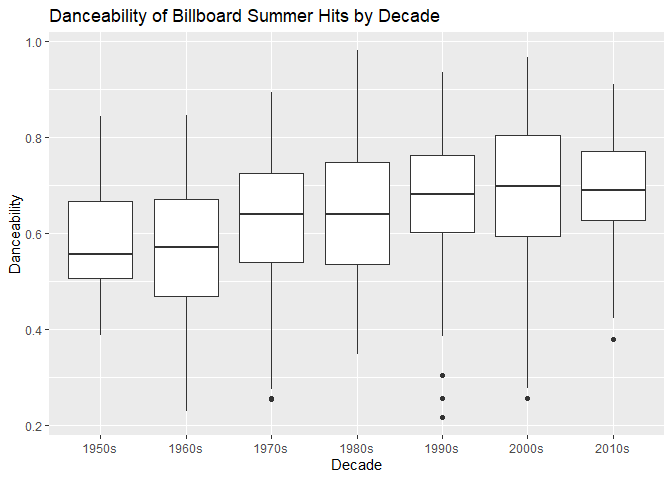
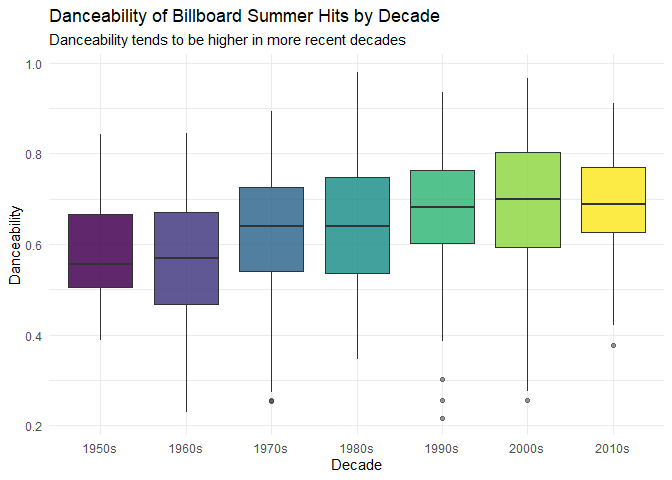
Updated visualizations 2 and 3 for project 1

diff --git a/project-01/Spangler_project_01.md b/project-01/Spangler_project_01.md
@@ -160,7 +160,9 @@ energy_plot <- ggplot(
       "<br>Average energy:", round(average_energy, 3)
     )
   )
-) + geom_line(linewidth = 0.8) + geom_point(size = 1.5) +
+) +
+  geom_line(linewidth = 0.8) +
+  geom_point(size = 1.5) +
   labs(
     title = "Average Energy of Billboard Summer Hits Over Time",
     x = "Year",
@@ -171,30 +173,42 @@ ggplotly(energy_plot, tooltip = "text")
 ```
 
 ```{=html}
-<div class="plotly html-widget html-fill-item" id="htmlwidget-34f5911a9bf1ff0a7f83" style="width:672px;height:480px;"></div>
-<script type="application/json" data-for="htmlwidget-34f5911a9bf1ff0a7f83">{"x":{"data":[{"x":[1958,null,1959,null,1960,null,1961,null,1962,null,1963,null,1964,null,1965,null,1966,null,1967,null,1968,null,1969,null,1970,null,1971,null,1972,null,1973,null,1974,null,1975,null,1976,null,1977,null,1978,null,1979,null,1980,null,1981,null,1982,null,1983,null,1984,null,1985,null,1986,null,1987,null,1988,null,1989,null,1990,null,1991,null,1992,null,1993,null,1994,null,1995,null,1996,null,1997,null,1998,null,1999,null,2000,null,2001,null,2002,null,2003,null,2004,null,2005,null,2006,null,2007,null,2008,null,2009,null,2010,null,2011,null,2012,null,2013,null,2014,null,2015,null,2016,null,2017],"y":[0.44850000000000001,null,0.52510000000000001,null,0.55030000000000001,null,0.51139000000000001,null,0.501,null,0.59508000000000005,null,0.51459999999999995,null,0.60709999999999997,null,0.59260000000000002,null,0.57020000000000004,null,0.58789999999999998,null,0.42570000000000002,null,0.56240000000000001,null,0.42880000000000001,null,0.51760000000000006,null,0.58379999999999999,null,0.49540000000000001,null,0.54349999999999998,null,0.58220000000000005,null,0.5151,null,0.53605999999999998,null,0.6663,null,0.5796,null,0.53180000000000005,null,0.61460000000000004,null,0.63629999999999998,null,0.71889999999999998,null,0.75290000000000001,null,0.751,null,0.71189999999999998,null,0.68159999999999998,null,0.54830000000000001,null,0.70210000000000006,null,0.62719999999999998,null,0.55469999999999997,null,0.62290000000000001,null,0.56609999999999994,null,0.59719999999999995,null,0.59970000000000001,null,0.75800000000000001,null,0.53700000000000003,null,0.69230000000000003,null,0.74870000000000003,null,0.64800000000000002,null,0.71230000000000004,null,0.69379999999999997,null,0.62339999999999995,null,0.71040000000000003,null,0.70679999999999998,null,0.63439999999999996,null,0.69289999999999996,null,0.78900000000000003,null,0.80459999999999998,null,0.70440000000000003,null,0.72789999999999999,null,0.71360000000000001,null,0.6724,null,0.73299999999999998,null,0.68320000000000003,null,0.68159999999999998],"text":["Year: 1958 <br>Average energy: 0.448",null,"Year: 1959 <br>Average energy: 0.525",null,"Year: 1960 <br>Average energy: 0.55",null,"Year: 1961 <br>Average energy: 0.511",null,"Year: 1962 <br>Average energy: 0.501",null,"Year: 1963 <br>Average energy: 0.595",null,"Year: 1964 <br>Average energy: 0.515",null,"Year: 1965 <br>Average energy: 0.607",null,"Year: 1966 <br>Average energy: 0.593",null,"Year: 1967 <br>Average energy: 0.57",null,"Year: 1968 <br>Average energy: 0.588",null,"Year: 1969 <br>Average energy: 0.426",null,"Year: 1970 <br>Average energy: 0.562",null,"Year: 1971 <br>Average energy: 0.429",null,"Year: 1972 <br>Average energy: 0.518",null,"Year: 1973 <br>Average energy: 0.584",null,"Year: 1974 <br>Average energy: 0.495",null,"Year: 1975 <br>Average energy: 0.543",null,"Year: 1976 <br>Average energy: 0.582",null,"Year: 1977 <br>Average energy: 0.515",null,"Year: 1978 <br>Average energy: 0.536",null,"Year: 1979 <br>Average energy: 0.666",null,"Year: 1980 <br>Average energy: 0.58",null,"Year: 1981 <br>Average energy: 0.532",null,"Year: 1982 <br>Average energy: 0.615",null,"Year: 1983 <br>Average energy: 0.636",null,"Year: 1984 <br>Average energy: 0.719",null,"Year: 1985 <br>Average energy: 0.753",null,"Year: 1986 <br>Average energy: 0.751",null,"Year: 1987 <br>Average energy: 0.712",null,"Year: 1988 <br>Average energy: 0.682",null,"Year: 1989 <br>Average energy: 0.548",null,"Year: 1990 <br>Average energy: 0.702",null,"Year: 1991 <br>Average energy: 0.627",null,"Year: 1992 <br>Average energy: 0.555",null,"Year: 1993 <br>Average energy: 0.623",null,"Year: 1994 <br>Average energy: 0.566",null,"Year: 1995 <br>Average energy: 0.597",null,"Year: 1996 <br>Average energy: 0.6",null,"Year: 1997 <br>Average energy: 0.758",null,"Year: 1998 <br>Average energy: 0.537",null,"Year: 1999 <br>Average energy: 0.692",null,"Year: 2000 <br>Average energy: 0.749",null,"Year: 2001 <br>Average energy: 0.648",null,"Year: 2002 <br>Average energy: 0.712",null,"Year: 2003 <br>Average energy: 0.694",null,"Year: 2004 <br>Average energy: 0.623",null,"Year: 2005 <br>Average energy: 0.71",null,"Year: 2006 <br>Average energy: 0.707",null,"Year: 2007 <br>Average energy: 0.634",null,"Year: 2008 <br>Average energy: 0.693",null,"Year: 2009 <br>Average energy: 0.789",null,"Year: 2010 <br>Average energy: 0.805",null,"Year: 2011 <br>Average energy: 0.704",null,"Year: 2012 <br>Average energy: 0.728",null,"Year: 2013 <br>Average energy: 0.714",null,"Year: 2014 <br>Average energy: 0.672",null,"Year: 2015 <br>Average energy: 0.733",null,"Year: 2016 <br>Average energy: 0.683",null,"Year: 2017 <br>Average energy: 0.682"],"type":"scatter","mode":"lines","line":{"width":3.0236220472440949,"color":"rgba(0,0,0,1)","dash":"solid"},"hoveron":"points","showlegend":false,"xaxis":"x","yaxis":"y","hoverinfo":"text","frame":null},{"x":[1958,1959,1960,1961,1962,1963,1964,1965,1966,1967,1968,1969,1970,1971,1972,1973,1974,1975,1976,1977,1978,1979,1980,1981,1982,1983,1984,1985,1986,1987,1988,1989,1990,1991,1992,1993,1994,1995,1996,1997,1998,1999,2000,2001,2002,2003,2004,2005,2006,2007,2008,2009,2010,2011,2012,2013,2014,2015,2016,2017],"y":[0.44850000000000001,0.52510000000000001,0.55030000000000001,0.51139000000000001,0.501,0.59508000000000005,0.51459999999999995,0.60709999999999997,0.59260000000000002,0.57020000000000004,0.58789999999999998,0.42570000000000002,0.56240000000000001,0.42880000000000001,0.51760000000000006,0.58379999999999999,0.49540000000000001,0.54349999999999998,0.58220000000000005,0.5151,0.53605999999999998,0.6663,0.5796,0.53180000000000005,0.61460000000000004,0.63629999999999998,0.71889999999999998,0.75290000000000001,0.751,0.71189999999999998,0.68159999999999998,0.54830000000000001,0.70210000000000006,0.62719999999999998,0.55469999999999997,0.62290000000000001,0.56609999999999994,0.59719999999999995,0.59970000000000001,0.75800000000000001,0.53700000000000003,0.69230000000000003,0.74870000000000003,0.64800000000000002,0.71230000000000004,0.69379999999999997,0.62339999999999995,0.71040000000000003,0.70679999999999998,0.63439999999999996,0.69289999999999996,0.78900000000000003,0.80459999999999998,0.70440000000000003,0.72789999999999999,0.71360000000000001,0.6724,0.73299999999999998,0.68320000000000003,0.68159999999999998],"text":["Year: 1958 <br>Average energy: 0.448","Year: 1959 <br>Average energy: 0.525","Year: 1960 <br>Average energy: 0.55","Year: 1961 <br>Average energy: 0.511","Year: 1962 <br>Average energy: 0.501","Year: 1963 <br>Average energy: 0.595","Year: 1964 <br>Average energy: 0.515","Year: 1965 <br>Average energy: 0.607","Year: 1966 <br>Average energy: 0.593","Year: 1967 <br>Average energy: 0.57","Year: 1968 <br>Average energy: 0.588","Year: 1969 <br>Average energy: 0.426","Year: 1970 <br>Average energy: 0.562","Year: 1971 <br>Average energy: 0.429","Year: 1972 <br>Average energy: 0.518","Year: 1973 <br>Average energy: 0.584","Year: 1974 <br>Average energy: 0.495","Year: 1975 <br>Average energy: 0.543","Year: 1976 <br>Average energy: 0.582","Year: 1977 <br>Average energy: 0.515","Year: 1978 <br>Average energy: 0.536","Year: 1979 <br>Average energy: 0.666","Year: 1980 <br>Average energy: 0.58","Year: 1981 <br>Average energy: 0.532","Year: 1982 <br>Average energy: 0.615","Year: 1983 <br>Average energy: 0.636","Year: 1984 <br>Average energy: 0.719","Year: 1985 <br>Average energy: 0.753","Year: 1986 <br>Average energy: 0.751","Year: 1987 <br>Average energy: 0.712","Year: 1988 <br>Average energy: 0.682","Year: 1989 <br>Average energy: 0.548","Year: 1990 <br>Average energy: 0.702","Year: 1991 <br>Average energy: 0.627","Year: 1992 <br>Average energy: 0.555","Year: 1993 <br>Average energy: 0.623","Year: 1994 <br>Average energy: 0.566","Year: 1995 <br>Average energy: 0.597","Year: 1996 <br>Average energy: 0.6","Year: 1997 <br>Average energy: 0.758","Year: 1998 <br>Average energy: 0.537","Year: 1999 <br>Average energy: 0.692","Year: 2000 <br>Average energy: 0.749","Year: 2001 <br>Average energy: 0.648","Year: 2002 <br>Average energy: 0.712","Year: 2003 <br>Average energy: 0.694","Year: 2004 <br>Average energy: 0.623","Year: 2005 <br>Average energy: 0.71","Year: 2006 <br>Average energy: 0.707","Year: 2007 <br>Average energy: 0.634","Year: 2008 <br>Average energy: 0.693","Year: 2009 <br>Average energy: 0.789","Year: 2010 <br>Average energy: 0.805","Year: 2011 <br>Average energy: 0.704","Year: 2012 <br>Average energy: 0.728","Year: 2013 <br>Average energy: 0.714","Year: 2014 <br>Average energy: 0.672","Year: 2015 <br>Average energy: 0.733","Year: 2016 <br>Average energy: 0.683","Year: 2017 <br>Average energy: 0.682"],"type":"scatter","mode":"markers","marker":{"autocolorscale":false,"color":"rgba(0,0,0,1)","opacity":1,"size":5.6692913385826778,"symbol":"circle","line":{"width":1.8897637795275593,"color":"rgba(0,0,0,1)"}},"hoveron":"points","showlegend":false,"xaxis":"x","yaxis":"y","hoverinfo":"text","frame":null}],"layout":{"margin":{"t":40.840182648401829,"r":7.3059360730593621,"b":37.260273972602747,"l":43.105022831050235},"paper_bgcolor":"rgba(255,255,255,1)","font":{"color":"rgba(0,0,0,1)","family":"","size":14.611872146118724},"title":{"text":"Average Energy of Billboard Summer Hits Over Time","font":{"color":"rgba(0,0,0,1)","family":"","size":17.534246575342465},"x":0,"xref":"paper"},"xaxis":{"domain":[0,1],"automargin":true,"type":"linear","autorange":false,"range":[1955.05,2019.95],"tickmode":"array","ticktext":["1960","1980","2000"],"tickvals":[1960,1980,2000],"categoryorder":"array","categoryarray":["1960","1980","2000"],"nticks":null,"ticks":"","tickcolor":null,"ticklen":3.6529680365296811,"tickwidth":0,"showticklabels":true,"tickfont":{"color":"rgba(77,77,77,1)","family":"","size":11.68949771689498},"tickangle":-0,"showline":false,"linecolor":null,"linewidth":0,"showgrid":true,"gridcolor":"rgba(235,235,235,1)","gridwidth":0.66417600664176002,"zeroline":false,"anchor":"y","title":{"text":"Year","font":{"color":"rgba(0,0,0,1)","family":"","size":14.611872146118724}},"hoverformat":".2f"},"yaxis":{"domain":[0,1],"automargin":true,"type":"linear","autorange":false,"range":[0.40675500000000003,0.82354499999999997],"tickmode":"array","ticktext":["0.5","0.6","0.7","0.8"],"tickvals":[0.5,0.60000000000000009,0.70000000000000007,0.80000000000000004],"categoryorder":"array","categoryarray":["0.5","0.6","0.7","0.8"],"nticks":null,"ticks":"","tickcolor":null,"ticklen":3.6529680365296811,"tickwidth":0,"showticklabels":true,"tickfont":{"color":"rgba(77,77,77,1)","family":"","size":11.68949771689498},"tickangle":-0,"showline":false,"linecolor":null,"linewidth":0,"showgrid":true,"gridcolor":"rgba(235,235,235,1)","gridwidth":0.66417600664176002,"zeroline":false,"anchor":"x","title":{"text":"Average Energy","font":{"color":"rgba(0,0,0,1)","family":"","size":14.611872146118724}},"hoverformat":".2f"},"shapes":[],"showlegend":false,"legend":{"bgcolor":null,"bordercolor":null,"borderwidth":0,"font":{"color":"rgba(0,0,0,1)","family":"","size":11.68949771689498}},"hovermode":"closest","barmode":"relative"},"config":{"doubleClick":"reset","modeBarButtonsToAdd":["hoverclosest","hovercompare"],"showSendToCloud":false},"source":"A","attrs":{"4c5462ce438b":{"x":{},"y":{},"text":{},"type":"scatter"},"4c5440f3524e":{"x":{},"y":{},"text":{}}},"cur_data":"4c5462ce438b","visdat":{"4c5462ce438b":["function (y) ","x"],"4c5440f3524e":["function (y) ","x"]},"highlight":{"on":"plotly_click","persistent":false,"dynamic":false,"selectize":false,"opacityDim":0.20000000000000001,"selected":{"opacity":1},"debounce":0},"shinyEvents":["plotly_hover","plotly_click","plotly_selected","plotly_relayout","plotly_brushed","plotly_brushing","plotly_clickannotation","plotly_doubleclick","plotly_deselect","plotly_afterplot","plotly_sunburstclick"],"base_url":"https://plot.ly"},"evals":[],"jsHooks":[]}</script>
+<div class="plotly html-widget html-fill-item" id="htmlwidget-8eb9d4f21ce566234329" style="width:672px;height:480px;"></div>
+<script type="application/json" data-for="htmlwidget-8eb9d4f21ce566234329">{"x":{"data":[{"x":[1958,null,1959,null,1960,null,1961,null,1962,null,1963,null,1964,null,1965,null,1966,null,1967,null,1968,null,1969,null,1970,null,1971,null,1972,null,1973,null,1974,null,1975,null,1976,null,1977,null,1978,null,1979,null,1980,null,1981,null,1982,null,1983,null,1984,null,1985,null,1986,null,1987,null,1988,null,1989,null,1990,null,1991,null,1992,null,1993,null,1994,null,1995,null,1996,null,1997,null,1998,null,1999,null,2000,null,2001,null,2002,null,2003,null,2004,null,2005,null,2006,null,2007,null,2008,null,2009,null,2010,null,2011,null,2012,null,2013,null,2014,null,2015,null,2016,null,2017],"y":[0.44850000000000001,null,0.52510000000000001,null,0.55030000000000001,null,0.51139000000000001,null,0.501,null,0.59508000000000005,null,0.51459999999999995,null,0.60709999999999997,null,0.59260000000000002,null,0.57020000000000004,null,0.58789999999999998,null,0.42570000000000002,null,0.56240000000000001,null,0.42880000000000001,null,0.51760000000000006,null,0.58379999999999999,null,0.49540000000000001,null,0.54349999999999998,null,0.58220000000000005,null,0.5151,null,0.53605999999999998,null,0.6663,null,0.5796,null,0.53180000000000005,null,0.61460000000000004,null,0.63629999999999998,null,0.71889999999999998,null,0.75290000000000001,null,0.751,null,0.71189999999999998,null,0.68159999999999998,null,0.54830000000000001,null,0.70210000000000006,null,0.62719999999999998,null,0.55469999999999997,null,0.62290000000000001,null,0.56609999999999994,null,0.59719999999999995,null,0.59970000000000001,null,0.75800000000000001,null,0.53700000000000003,null,0.69230000000000003,null,0.74870000000000003,null,0.64800000000000002,null,0.71230000000000004,null,0.69379999999999997,null,0.62339999999999995,null,0.71040000000000003,null,0.70679999999999998,null,0.63439999999999996,null,0.69289999999999996,null,0.78900000000000003,null,0.80459999999999998,null,0.70440000000000003,null,0.72789999999999999,null,0.71360000000000001,null,0.6724,null,0.73299999999999998,null,0.68320000000000003,null,0.68159999999999998],"text":["Year: 1958 <br>Average energy: 0.448",null,"Year: 1959 <br>Average energy: 0.525",null,"Year: 1960 <br>Average energy: 0.55",null,"Year: 1961 <br>Average energy: 0.511",null,"Year: 1962 <br>Average energy: 0.501",null,"Year: 1963 <br>Average energy: 0.595",null,"Year: 1964 <br>Average energy: 0.515",null,"Year: 1965 <br>Average energy: 0.607",null,"Year: 1966 <br>Average energy: 0.593",null,"Year: 1967 <br>Average energy: 0.57",null,"Year: 1968 <br>Average energy: 0.588",null,"Year: 1969 <br>Average energy: 0.426",null,"Year: 1970 <br>Average energy: 0.562",null,"Year: 1971 <br>Average energy: 0.429",null,"Year: 1972 <br>Average energy: 0.518",null,"Year: 1973 <br>Average energy: 0.584",null,"Year: 1974 <br>Average energy: 0.495",null,"Year: 1975 <br>Average energy: 0.543",null,"Year: 1976 <br>Average energy: 0.582",null,"Year: 1977 <br>Average energy: 0.515",null,"Year: 1978 <br>Average energy: 0.536",null,"Year: 1979 <br>Average energy: 0.666",null,"Year: 1980 <br>Average energy: 0.58",null,"Year: 1981 <br>Average energy: 0.532",null,"Year: 1982 <br>Average energy: 0.615",null,"Year: 1983 <br>Average energy: 0.636",null,"Year: 1984 <br>Average energy: 0.719",null,"Year: 1985 <br>Average energy: 0.753",null,"Year: 1986 <br>Average energy: 0.751",null,"Year: 1987 <br>Average energy: 0.712",null,"Year: 1988 <br>Average energy: 0.682",null,"Year: 1989 <br>Average energy: 0.548",null,"Year: 1990 <br>Average energy: 0.702",null,"Year: 1991 <br>Average energy: 0.627",null,"Year: 1992 <br>Average energy: 0.555",null,"Year: 1993 <br>Average energy: 0.623",null,"Year: 1994 <br>Average energy: 0.566",null,"Year: 1995 <br>Average energy: 0.597",null,"Year: 1996 <br>Average energy: 0.6",null,"Year: 1997 <br>Average energy: 0.758",null,"Year: 1998 <br>Average energy: 0.537",null,"Year: 1999 <br>Average energy: 0.692",null,"Year: 2000 <br>Average energy: 0.749",null,"Year: 2001 <br>Average energy: 0.648",null,"Year: 2002 <br>Average energy: 0.712",null,"Year: 2003 <br>Average energy: 0.694",null,"Year: 2004 <br>Average energy: 0.623",null,"Year: 2005 <br>Average energy: 0.71",null,"Year: 2006 <br>Average energy: 0.707",null,"Year: 2007 <br>Average energy: 0.634",null,"Year: 2008 <br>Average energy: 0.693",null,"Year: 2009 <br>Average energy: 0.789",null,"Year: 2010 <br>Average energy: 0.805",null,"Year: 2011 <br>Average energy: 0.704",null,"Year: 2012 <br>Average energy: 0.728",null,"Year: 2013 <br>Average energy: 0.714",null,"Year: 2014 <br>Average energy: 0.672",null,"Year: 2015 <br>Average energy: 0.733",null,"Year: 2016 <br>Average energy: 0.683",null,"Year: 2017 <br>Average energy: 0.682"],"type":"scatter","mode":"lines","line":{"width":3.0236220472440949,"color":"rgba(0,0,0,1)","dash":"solid"},"hoveron":"points","showlegend":false,"xaxis":"x","yaxis":"y","hoverinfo":"text","frame":null},{"x":[1958,1959,1960,1961,1962,1963,1964,1965,1966,1967,1968,1969,1970,1971,1972,1973,1974,1975,1976,1977,1978,1979,1980,1981,1982,1983,1984,1985,1986,1987,1988,1989,1990,1991,1992,1993,1994,1995,1996,1997,1998,1999,2000,2001,2002,2003,2004,2005,2006,2007,2008,2009,2010,2011,2012,2013,2014,2015,2016,2017],"y":[0.44850000000000001,0.52510000000000001,0.55030000000000001,0.51139000000000001,0.501,0.59508000000000005,0.51459999999999995,0.60709999999999997,0.59260000000000002,0.57020000000000004,0.58789999999999998,0.42570000000000002,0.56240000000000001,0.42880000000000001,0.51760000000000006,0.58379999999999999,0.49540000000000001,0.54349999999999998,0.58220000000000005,0.5151,0.53605999999999998,0.6663,0.5796,0.53180000000000005,0.61460000000000004,0.63629999999999998,0.71889999999999998,0.75290000000000001,0.751,0.71189999999999998,0.68159999999999998,0.54830000000000001,0.70210000000000006,0.62719999999999998,0.55469999999999997,0.62290000000000001,0.56609999999999994,0.59719999999999995,0.59970000000000001,0.75800000000000001,0.53700000000000003,0.69230000000000003,0.74870000000000003,0.64800000000000002,0.71230000000000004,0.69379999999999997,0.62339999999999995,0.71040000000000003,0.70679999999999998,0.63439999999999996,0.69289999999999996,0.78900000000000003,0.80459999999999998,0.70440000000000003,0.72789999999999999,0.71360000000000001,0.6724,0.73299999999999998,0.68320000000000003,0.68159999999999998],"text":["Year: 1958 <br>Average energy: 0.448","Year: 1959 <br>Average energy: 0.525","Year: 1960 <br>Average energy: 0.55","Year: 1961 <br>Average energy: 0.511","Year: 1962 <br>Average energy: 0.501","Year: 1963 <br>Average energy: 0.595","Year: 1964 <br>Average energy: 0.515","Year: 1965 <br>Average energy: 0.607","Year: 1966 <br>Average energy: 0.593","Year: 1967 <br>Average energy: 0.57","Year: 1968 <br>Average energy: 0.588","Year: 1969 <br>Average energy: 0.426","Year: 1970 <br>Average energy: 0.562","Year: 1971 <br>Average energy: 0.429","Year: 1972 <br>Average energy: 0.518","Year: 1973 <br>Average energy: 0.584","Year: 1974 <br>Average energy: 0.495","Year: 1975 <br>Average energy: 0.543","Year: 1976 <br>Average energy: 0.582","Year: 1977 <br>Average energy: 0.515","Year: 1978 <br>Average energy: 0.536","Year: 1979 <br>Average energy: 0.666","Year: 1980 <br>Average energy: 0.58","Year: 1981 <br>Average energy: 0.532","Year: 1982 <br>Average energy: 0.615","Year: 1983 <br>Average energy: 0.636","Year: 1984 <br>Average energy: 0.719","Year: 1985 <br>Average energy: 0.753","Year: 1986 <br>Average energy: 0.751","Year: 1987 <br>Average energy: 0.712","Year: 1988 <br>Average energy: 0.682","Year: 1989 <br>Average energy: 0.548","Year: 1990 <br>Average energy: 0.702","Year: 1991 <br>Average energy: 0.627","Year: 1992 <br>Average energy: 0.555","Year: 1993 <br>Average energy: 0.623","Year: 1994 <br>Average energy: 0.566","Year: 1995 <br>Average energy: 0.597","Year: 1996 <br>Average energy: 0.6","Year: 1997 <br>Average energy: 0.758","Year: 1998 <br>Average energy: 0.537","Year: 1999 <br>Average energy: 0.692","Year: 2000 <br>Average energy: 0.749","Year: 2001 <br>Average energy: 0.648","Year: 2002 <br>Average energy: 0.712","Year: 2003 <br>Average energy: 0.694","Year: 2004 <br>Average energy: 0.623","Year: 2005 <br>Average energy: 0.71","Year: 2006 <br>Average energy: 0.707","Year: 2007 <br>Average energy: 0.634","Year: 2008 <br>Average energy: 0.693","Year: 2009 <br>Average energy: 0.789","Year: 2010 <br>Average energy: 0.805","Year: 2011 <br>Average energy: 0.704","Year: 2012 <br>Average energy: 0.728","Year: 2013 <br>Average energy: 0.714","Year: 2014 <br>Average energy: 0.672","Year: 2015 <br>Average energy: 0.733","Year: 2016 <br>Average energy: 0.683","Year: 2017 <br>Average energy: 0.682"],"type":"scatter","mode":"markers","marker":{"autocolorscale":false,"color":"rgba(0,0,0,1)","opacity":1,"size":5.6692913385826778,"symbol":"circle","line":{"width":1.8897637795275593,"color":"rgba(0,0,0,1)"}},"hoveron":"points","showlegend":false,"xaxis":"x","yaxis":"y","hoverinfo":"text","frame":null}],"layout":{"margin":{"t":40.840182648401829,"r":7.3059360730593621,"b":37.260273972602747,"l":43.105022831050235},"paper_bgcolor":"rgba(255,255,255,1)","font":{"color":"rgba(0,0,0,1)","family":"","size":14.611872146118724},"title":{"text":"Average Energy of Billboard Summer Hits Over Time","font":{"color":"rgba(0,0,0,1)","family":"","size":17.534246575342465},"x":0,"xref":"paper"},"xaxis":{"domain":[0,1],"automargin":true,"type":"linear","autorange":false,"range":[1955.05,2019.95],"tickmode":"array","ticktext":["1960","1980","2000"],"tickvals":[1960,1980,2000],"categoryorder":"array","categoryarray":["1960","1980","2000"],"nticks":null,"ticks":"","tickcolor":null,"ticklen":3.6529680365296811,"tickwidth":0,"showticklabels":true,"tickfont":{"color":"rgba(77,77,77,1)","family":"","size":11.68949771689498},"tickangle":-0,"showline":false,"linecolor":null,"linewidth":0,"showgrid":true,"gridcolor":"rgba(235,235,235,1)","gridwidth":0.66417600664176002,"zeroline":false,"anchor":"y","title":{"text":"Year","font":{"color":"rgba(0,0,0,1)","family":"","size":14.611872146118724}},"hoverformat":".2f"},"yaxis":{"domain":[0,1],"automargin":true,"type":"linear","autorange":false,"range":[0.40675500000000003,0.82354499999999997],"tickmode":"array","ticktext":["0.5","0.6","0.7","0.8"],"tickvals":[0.5,0.60000000000000009,0.70000000000000007,0.80000000000000004],"categoryorder":"array","categoryarray":["0.5","0.6","0.7","0.8"],"nticks":null,"ticks":"","tickcolor":null,"ticklen":3.6529680365296811,"tickwidth":0,"showticklabels":true,"tickfont":{"color":"rgba(77,77,77,1)","family":"","size":11.68949771689498},"tickangle":-0,"showline":false,"linecolor":null,"linewidth":0,"showgrid":true,"gridcolor":"rgba(235,235,235,1)","gridwidth":0.66417600664176002,"zeroline":false,"anchor":"x","title":{"text":"Average Energy","font":{"color":"rgba(0,0,0,1)","family":"","size":14.611872146118724}},"hoverformat":".2f"},"shapes":[],"showlegend":false,"legend":{"bgcolor":null,"bordercolor":null,"borderwidth":0,"font":{"color":"rgba(0,0,0,1)","family":"","size":11.68949771689498}},"hovermode":"closest","barmode":"relative"},"config":{"doubleClick":"reset","modeBarButtonsToAdd":["hoverclosest","hovercompare"],"showSendToCloud":false},"source":"A","attrs":{"205c519d273":{"x":{},"y":{},"text":{},"type":"scatter"},"205c8807c20":{"x":{},"y":{},"text":{}}},"cur_data":"205c519d273","visdat":{"205c519d273":["function (y) ","x"],"205c8807c20":["function (y) ","x"]},"highlight":{"on":"plotly_click","persistent":false,"dynamic":false,"selectize":false,"opacityDim":0.20000000000000001,"selected":{"opacity":1},"debounce":0},"shinyEvents":["plotly_hover","plotly_click","plotly_selected","plotly_relayout","plotly_brushed","plotly_brushing","plotly_clickannotation","plotly_doubleclick","plotly_deselect","plotly_afterplot","plotly_sunburstclick"],"base_url":"https://plot.ly"},"evals":[],"jsHooks":[]}</script>
 ```
 
-This line graph shows how the average energy of Billboard summer hit songs changed from 1958 to 2017. The average energy appears to increase over time, although there are some decreases in certain years. Earlier years, especially from the late 1950s through the 1970s, generally have lower average energy scores, while many years after the 1980s have higher average energy scores. This chart is interactive, so the reader can hover over each year to see the exact average energy value. This gives the reader more detail than a static chart because they can explore specific years instead of only seeing the overall trend.
+This line graph shows how the average energy of Billboard summer hit songs changed from 1958 to 2017. The average energy appears to increase over time with some decreases at some years. In the earlier years especially the late 1950s through the 1970s, the songs generally have lower average energy scores, while many years after the 1980s have higher average energy scores. This chart is interactive, so the reader can hover over each year to see the exact average energy value. This gives the reader more detail than a static chart because they can explore specific years instead of only seeing the overall trend.
 
 ### Visualization 2
 
 
 
 ``` r
-ggplot(billboard_hits, aes(x = danceability, y = valence)) + geom_point(alpha = 0.6) + geom_smooth(method = "lm", se = FALSE) +
+ggplot(billboard_hits, aes(x = danceability, y = valence)) +
+  geom_point(
+    alpha = 0.6,
+    color = viridis(1, option = "D", begin = 0.55)
+  ) +
+  geom_smooth(
+    method = "lm",
+    se = FALSE,
+    color = "black",
+    linetype = "dashed",
+    linewidth = 0.9
+  ) +
   labs(
     title = "Danceability and Valence of Billboard Summer Hits",
+    subtitle = "More danceable songs often have a more positive sound",
     x = "Danceability",
     y = "Valence"
-  )
+  ) + theme_minimal()
 ```
 
 ```
 ## `geom_smooth()` using formula = 'y ~ x'
 ```
 
-![](Spangler_project_01_files/figure-html/visualization-2-1.png)<!-- -->
+<img src="Spangler_project_01_files/figure-html/visualization-2-1.png" alt="Scatterplot showing the relationship between danceability and valence for Billboard summer hits. Each point represents one song, and the dashed trend line shows a positive relationship."  />
 
 This scatterplot compares the danceability and valence for songs. The upward trend line suggests a positive relationship between the two variables. Songs with higher danceability often have higher valence which means they tend to sound more positive or upbeat. However, since the points are still spread out, danceability does not perfectly predict how positive songs sound.
 
@@ -203,18 +217,25 @@ This scatterplot compares the danceability and valence for songs. The upward tre
 
 
 ``` r
-billboard_hits <- billboard_hits %>%
-  mutate(decade = paste0(floor(year / 10) * 10, "s"))
-
-ggplot(billboard_hits, aes(x = decade, y = danceability)) + geom_boxplot() +
+billboard_hits %>%
+  mutate(
+    decade = factor(
+      paste0(floor(year / 10) * 10, "s"),
+      levels = paste0(seq(1950, 2010, by = 10), "s")
+    )
+  ) %>%
+  ggplot(aes(x = decade, y = danceability, fill = decade)) +
+  geom_boxplot(alpha = 0.85, outlier.alpha = 0.5) +
+  scale_fill_viridis_d(option = "D", guide = "none") +
   labs(
     title = "Danceability of Billboard Summer Hits by Decade",
+    subtitle = "Danceability tends to be higher in more recent decades",
     x = "Decade",
     y = "Danceability"
-  )
+  ) + theme_minimal()
 ```
 
-![](Spangler_project_01_files/figure-html/visualization-3-1.png)<!-- -->
+<img src="Spangler_project_01_files/figure-html/visualization-3-1.png" alt="Boxplots comparing danceability scores for Billboard summer hits by decade. The chart shows that more recent decades generally have higher median danceability scores than earlier decades."  />
 
 This boxplot shows the distribution of danceability scores for Billboard summer hits across different decades. The median danceability appears to increase from the 1950s and 1960s into the 1990s, 2000s, and 2010s. This suggests that more recent summer hits were more danceable than earlier summer hits. The chart also shows variation within each decade, meaning not every song from a decade follows the same pattern.
 